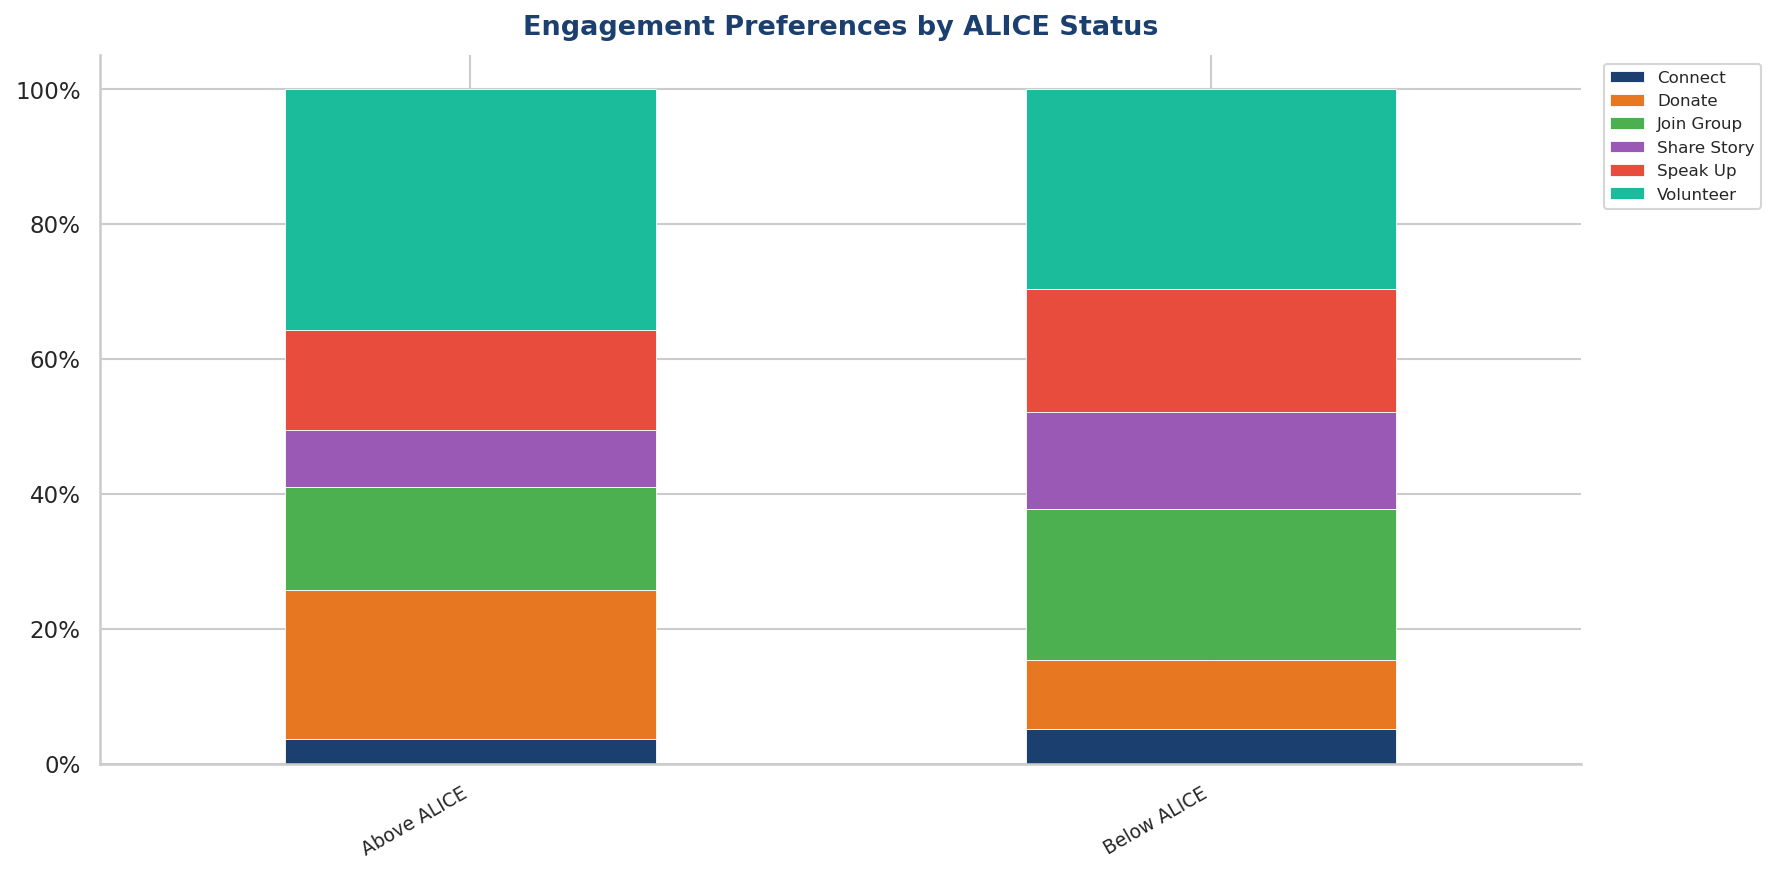
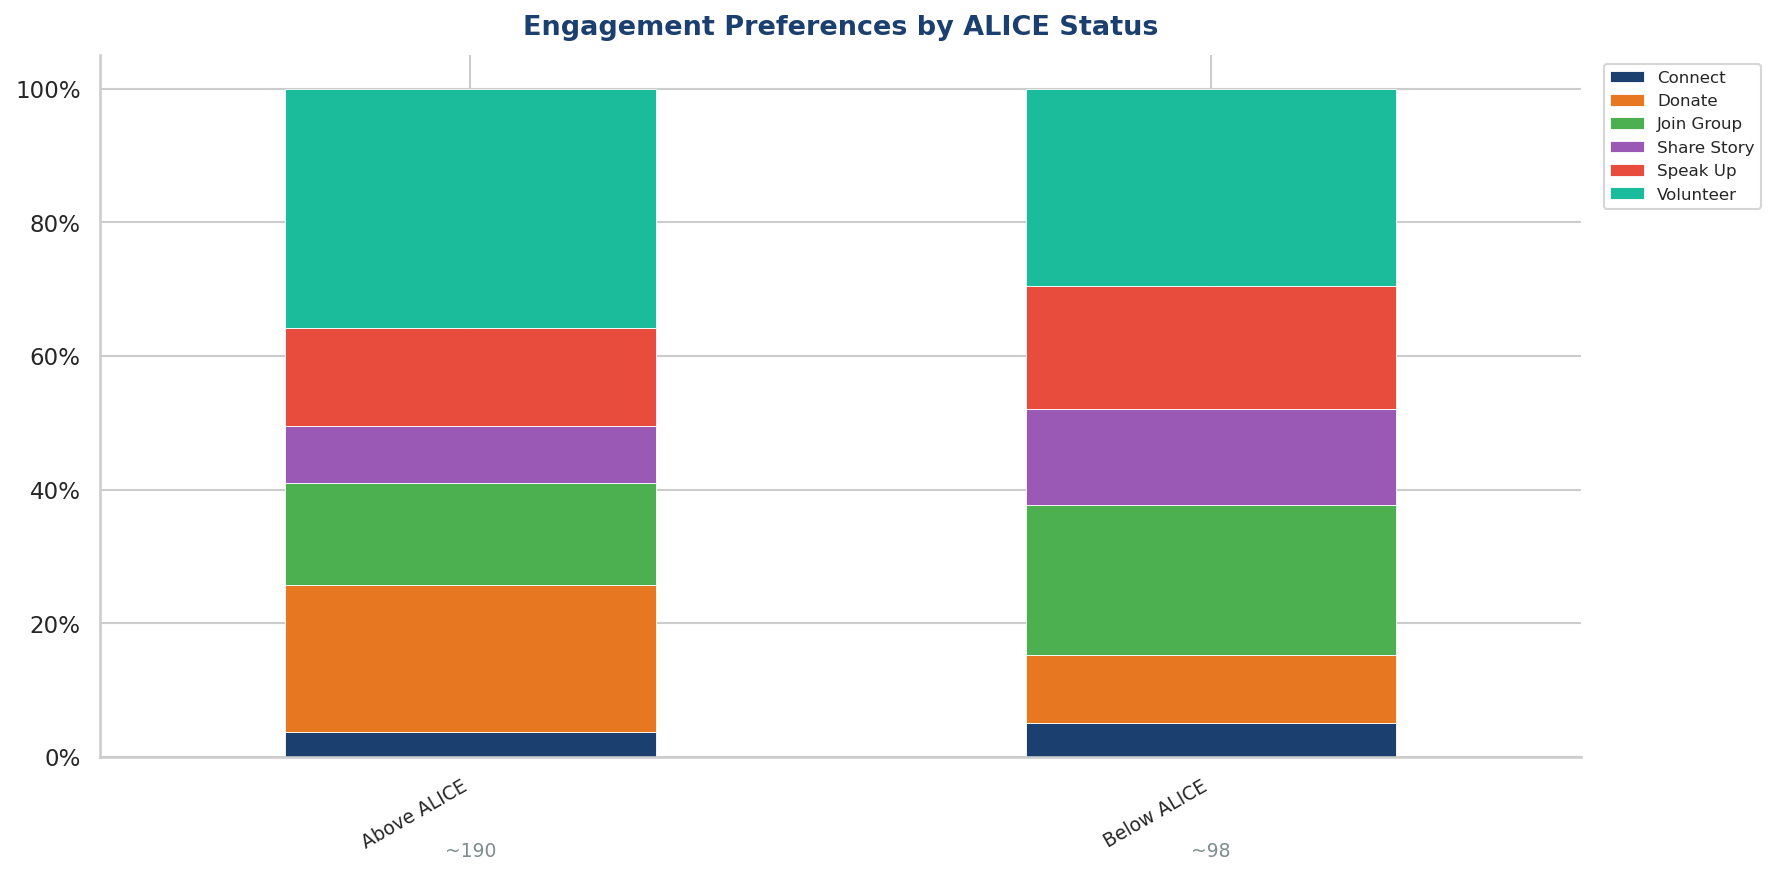
updated the figures to included responsent numbers below the columns

diff --git a/project.py b/project.py
@@ -213,7 +213,9 @@ def hbar(series, title, xlabel="Count", top_n=12, color=C["navy"],
 
 def grouped_pct_bar(ct, title, figsize=(12, 6)):
     """Stacked 100% bar chart — shows composition within each group."""
-    pct = ct.div(ct.sum(axis=1), axis=0) * 100
+    ct = ct[ct.sum(axis=1) >= 5]   # drop groups with fewer than 5 respondents
+    counts = ct.sum(axis=1)
+    pct = ct.div(counts, axis=0) * 100
     fig, ax = plt.subplots(figsize=figsize)
     pct.plot(kind="bar", stacked=True, ax=ax,
              color=PALETTE[:pct.shape[1]], edgecolor="white", linewidth=0.4)
@@ -223,12 +225,19 @@ def grouped_pct_bar(ct, title, figsize=(12, 6)):
     ax.legend(bbox_to_anchor=(1.01, 1), loc="upper left", fontsize=8)
     ax.spines[["top", "right"]].set_visible(False)
     plt.xticks(rotation=30, ha="right", fontsize=9)
+    # Add respondent count below each bar label
+    for i, (label, n) in enumerate(counts.items()):
+        ax.text(i, -0.12, f"~{n}", ha="center", va="top",
+                fontsize=9, color=C["gray"],
+                transform=ax.get_xaxis_transform())
     plt.tight_layout()
     return fig
+ 
 
 
 def heatmap_chart(ct, title, figsize=(13, 7)):
     """Percentage heatmap — normalizes by row for direct group comparison."""
+    ct = ct[ct.sum(axis=1) >= 5]   # drop groups with fewer than 5 respondents
     pct = ct.div(ct.sum(axis=1), axis=0) * 100
     fig, ax = plt.subplots(figsize=figsize)
     sns.heatmap(pct, annot=True, fmt=".1f", cmap="Blues",
